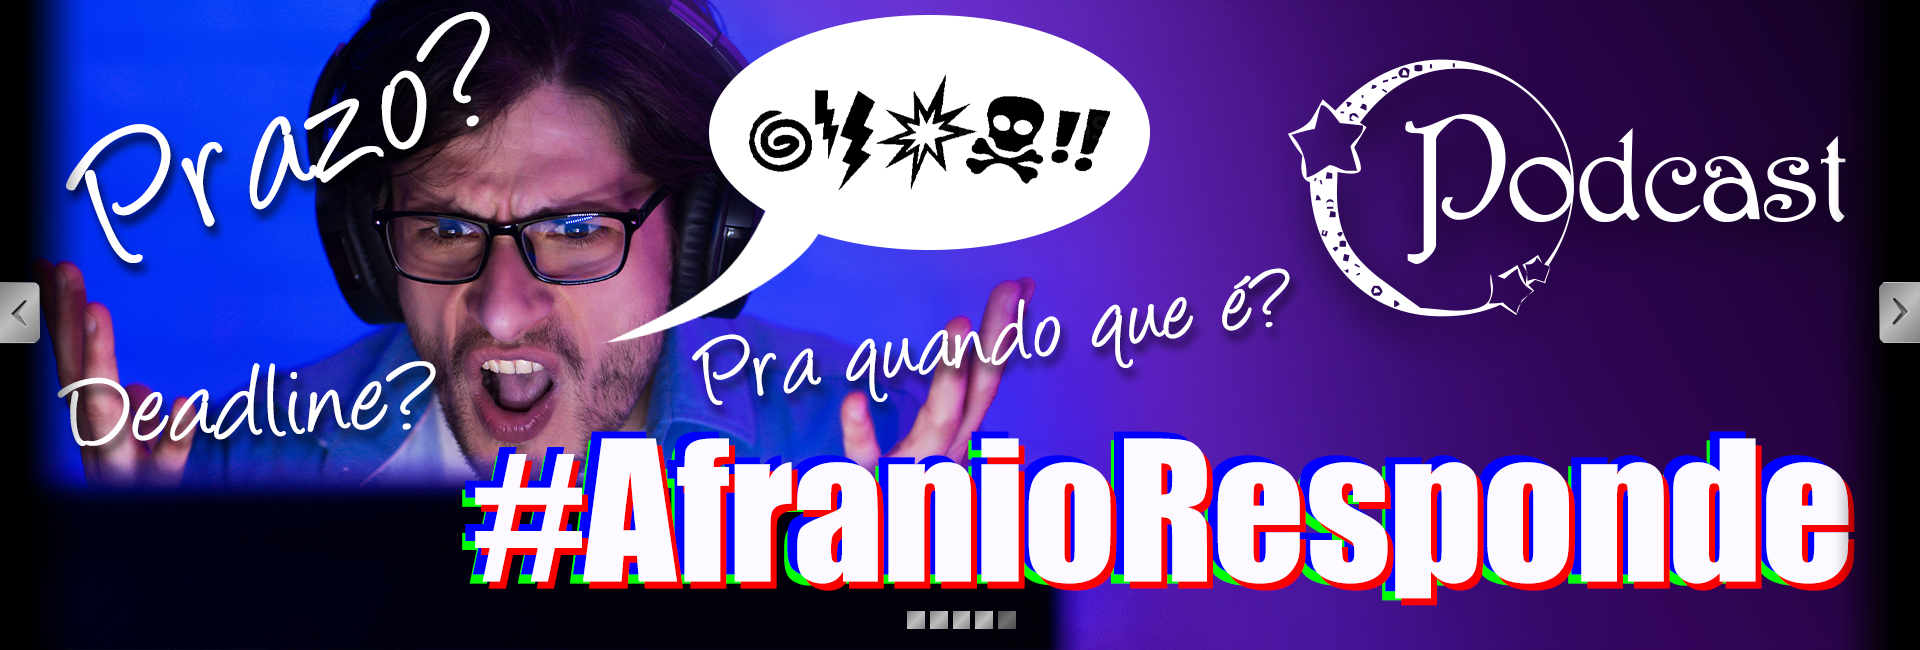
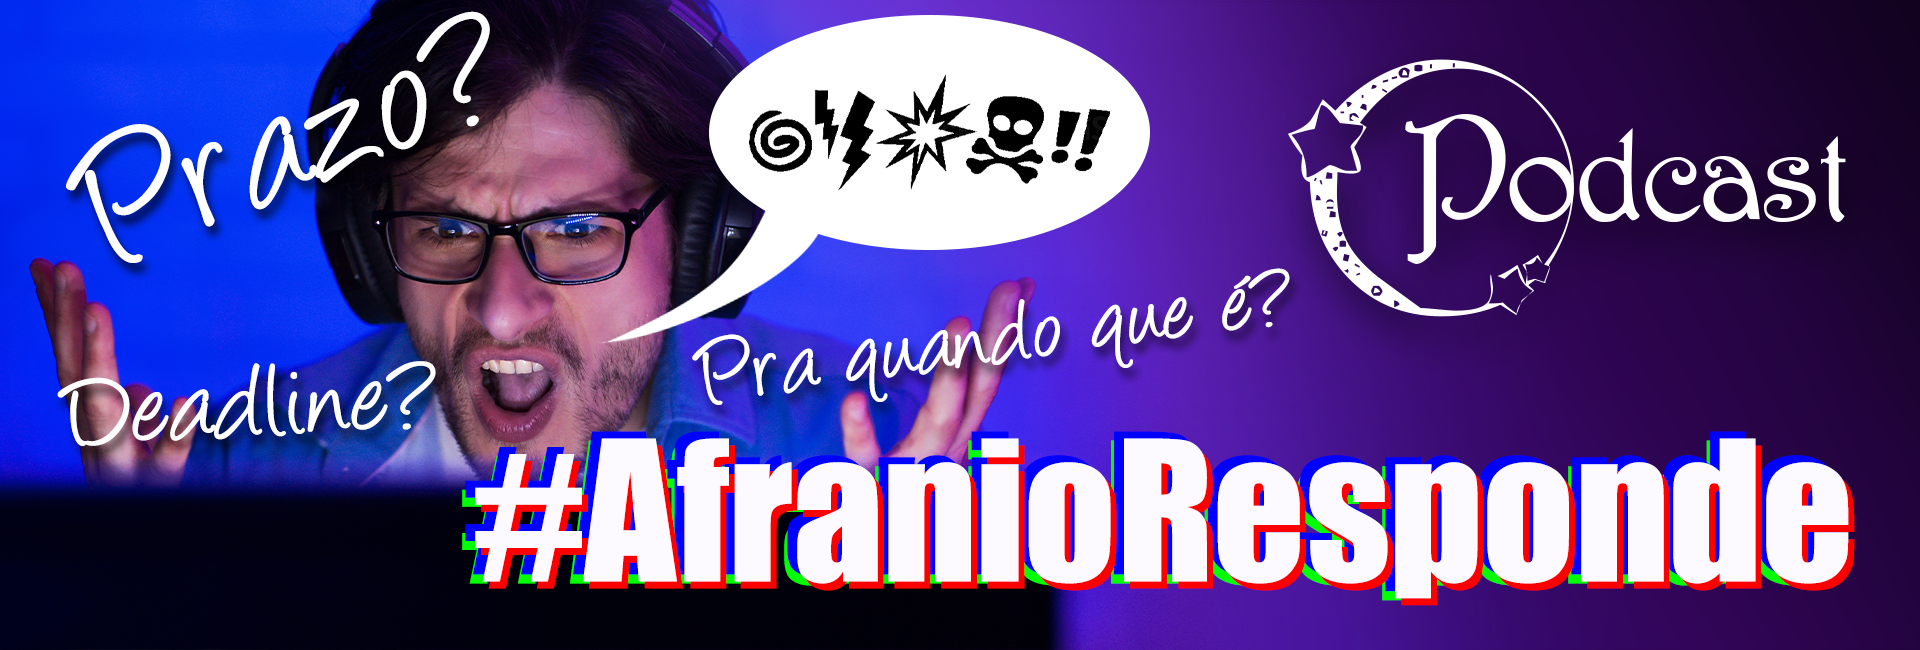
atualização página login

diff --git a/login.html b/login.html
@@ -9,18 +9,18 @@
     <link href="https://cdn.jsdelivr.net/npm/bootstrap@5.1.3/dist/css/bootstrap.min.css" rel="stylesheet" integrity="sha384-1BmE4kWBq78iYhFldvKuhfTAU6auU8tT94WrHftjDbrCEXSU1oBoqyl2QvZ6jIW3" crossorigin="anonymous">
     <link rel="stylesheet" href="css/style.css">
 </head>
-<body onload="renderizarNoticias()">
+<body>
     <header>
         <div class="container-grid posicionamento-header">
             <a href=""><img class="logo" src="img/Fantasy_Logo_Branco-com-Sombra 1.png" alt="Logo do Site"></a>
             
             <nav id="menu" class="menu">
-                <a href="">Home</a>
+                <a href="index.html">Home</a>
                 <a href="">Jogos</a>
                 <a href="">Notícias</a>
                 <a href="">Loja</a>
                 <a href="">Suporte</a>
-                <a href="">Minha Conta</a>
+                <a href="login.html">Minha Conta</a>
                 <a href=""><img src="img/lupa.png" alt="Pesquisa" onclick="mostraBusca()"></a>
                 <div id="busca">
                     <form class="busca" action="">
@@ -33,10 +33,10 @@
         </div>
     </header>
 
-    <div id="carrossel" class="carrossel">
+    <!-- <div id="carrossel" class="carrossel">
         <img src="img/banners/Banner_01.png" alt="DDO Feywild">
         <img src="img/banners/Banner_02.png" alt="Afranio responde">
-    </div>
+    </div> -->
 
 
     </div>
@@ -49,16 +49,16 @@
                             <input id="log-email" type="email" placeholder="E-mail" required>
                             <input id="log-senha" type="text" placeholder="Senha" required>
                             <br>
-                            <button class="log-button">Entrar</button>
+                            <button class="log-button" onclick="enviarLogin()">Entrar</button>
                         </form>
                 </div>
                 <div class="login col-md-6">
                     <h4>Ainda não tem conta? Cadastre-se aqui!</h4>
-                        <form class="form-login" action="">
-                            <input id="log-email" type="E-mail" placeholder="E-mail" required>
-                            <input id="log-senha" type="text" placeholder="Senha" required>
+                        <form class="form-cadastrar" action="">
+                            <input id="cad-email" type="E-mail" placeholder="E-mail" required>
+                            <input id="cad-senha" type="text" placeholder="Senha" required>
                             <br>
-                            <button class="log-cadastro-button">Criar conta</button>
+                            <button class="log-cadastro-button" onclick="enviarCadastrar()">Criar conta</button>
                         </form>
                 </div>
             <!-- </div> -->
@@ -79,7 +79,7 @@
                     <li><p class="footerLink"><a href="">Trabalhe conosco</a></p></li>
                 </ul>
             </div>
-            <div class="footer-texto col-md-3">
+            <div class="footer-texto2 col-md-3">
                 <p><b>Jogos</b></p>
                 <ul cass="footerLink">
                     <li><p class="footerLink"><a href="">D&D.com</a></p></li>
@@ -89,7 +89,7 @@
                     <li><p class="footerLink"><a href="">Tetris!</a></p></li>
                 </ul>
             </div>
-            <div class="footer-texto col-md-3">
+            <div class="footer-texto3 col-md-3">
                 <p><b>Midia</b></p>
                 <ul cass="footerLink">
                     <li><p class="footerLink"><a href="">Wallpapers</a></p></li>
@@ -104,10 +104,10 @@
                 </form>
             </div>
             <div class="footer-social col-md-3">
-                <a href=""><img class="fbBox" src="img/social_media/facebook_box.png"></a>
-                <a href=""><img class="socialIcon" src="img/social_media/instagram.png"></a>
-                <a href=""><img class="socialIcon" src="img/social_media/twitter.png"></a>
-                <a href=""><img class="socialIcon" src="img/social_media/youtube.png"></a>
+                <a href="http://www.facebook.com"><img class="fbBox" src="img/social_media/facebook_box.png"></a>
+                <a href="http://www.instagram.com"><img class="socialIcon" src="img/social_media/instagram.png"></a>
+                <a href="http://www.twitter.com"><img class="socialIcon" src="img/social_media/twitter.png"></a>
+                <a href="http://www.youtube.com"><img class="socialIcon" src="img/social_media/youtube.png"></a>
                 <a href=""><img class="socialIcon" src="img/social_media/feed.png"></a>
             </div>
         </div>

diff --git a/index.html b/index.html
@@ -15,12 +15,12 @@
             <a href=""><img class="logo" src="img/Fantasy_Logo_Branco-com-Sombra 1.png" alt="Logo do Site"></a>
             
             <nav id="menu" class="menu">
-                <a href="">Home</a>
+                <a href="index.html">Home</a>
                 <a href="">Jogos</a>
                 <a href="">Notícias</a>
                 <a href="">Loja</a>
                 <a href="">Suporte</a>
-                <a href="">Minha Conta</a>
+                <a href="login.html">Minha Conta</a>
                 <a href=""><img src="img/lupa.png" alt="Pesquisa" onclick="mostraBusca()"></a>
                 <div id="busca">
                     <form class="busca" action="">
@@ -91,9 +91,15 @@
                 Concurso Screenshot da semana
             </div>
             <div class="galeria">
-                <a href=""><img src="img/galeria/040915screenshotwk217.jpg"></a>
-                <a href=""><img src="img/galeria/062220screenshotwk469.jpg"></a>
-                <a href=""><img src="img/galeria/111620screenshotwk489.jpg"></a>
+                <div class="galeria1">
+                    <a href=""><img src="img/galeria/040915screenshotwk217.jpg"></a>
+                </div>
+                <div class="galeria2">
+                    <a href=""><img src="img/galeria/062220screenshotwk469.jpg"></a>
+                </div>
+                <div class="galeria3">
+                    <a href=""><img src="img/galeria/111620screenshotwk489.jpg"></a>
+                </div>
             </div>
         </div>
     </section>
@@ -110,7 +116,7 @@
                     <li><p class="footerLink"><a href="">Trabalhe conosco</a></p></li>
                 </ul>
             </div>
-            <div class="footer-texto col-md-3">
+            <div class="footer-texto2 col-md-3">
                 <p><b>Jogos</b></p>
                 <ul cass="footerLink">
                     <li><p class="footerLink"><a href="">D&D.com</a></p></li>
@@ -120,7 +126,7 @@
                     <li><p class="footerLink"><a href="">Tetris!</a></p></li>
                 </ul>
             </div>
-            <div class="footer-texto col-md-3">
+            <div class="footer-texto3 col-md-3">
                 <p><b>Midia</b></p>
                 <ul cass="footerLink">
                     <li><p class="footerLink"><a href="">Wallpapers</a></p></li>
@@ -135,10 +141,10 @@
                 </form>
             </div>
             <div class="footer-social col-md-3">
-                <a href=""><img class="fbBox" src="img/social_media/facebook_box.png"></a>
-                <a href=""><img class="socialIcon" src="img/social_media/instagram.png"></a>
-                <a href=""><img class="socialIcon" src="img/social_media/twitter.png"></a>
-                <a href=""><img class="socialIcon" src="img/social_media/youtube.png"></a>
+                <a href="http://www.facebook.com"><img class="fbBox" src="img/social_media/facebook_box.png"></a>
+                <a href="http://www.instagram.com"><img class="socialIcon" src="img/social_media/instagram.png"></a>
+                <a href="http://www.twitter.com"><img class="socialIcon" src="img/social_media/twitter.png"></a>
+                <a href="http://www.youtube.com"><img class="socialIcon" src="img/social_media/youtube.png"></a>
                 <a href=""><img class="socialIcon" src="img/social_media/feed.png"></a>
             </div>
         </div>

diff --git a/css/style.css b/css/style.css
@@ -63,6 +63,11 @@ body{
     justify-content: space-between;
 }
 
+.barras{
+    width: 50px;
+    display: none;
+}
+
 
 /* ============================================================================ */
 /* ============================================================================ */
@@ -105,6 +110,10 @@ body{
 
 .texto-banner p{
     margin-bottom: 50px;
+}
+
+.carrossel img{
+    width: 100%;
 }
 
 
@@ -176,8 +185,10 @@ body{
 
 
 .secao-galeria{
+    width: 100%;
     background-color: #3b414b;
     display: flex;
+    /* padding: 20px; */
 }
 
 .concurso{
@@ -205,10 +216,6 @@ body{
     margin-bottom: 20px;
 }
 
-.barras{
-    width: 50px;
-    display: none;
-}
 
 
 /* ============================================================================ */
@@ -372,6 +379,33 @@ button:hover {
     border-radius: 8px;
 }
 
+.form-cadastrar{
+    font-family: 'Roboto', sans-serif;
+    font-size: 20px;
+}
+
+.form-cadastrar[type="email"]{
+    height: 25px;
+    width: 240px;
+    padding: 3px;
+}
+
+.form-cadastrar input[type="email"]::placeholder{
+    color: #3b414b;
+    font-weight: bold;
+}
+
+.form-cadastrar[type="text"]{
+    height: 25px;
+    width: 220px;
+    padding: 3px;
+}
+
+.form-cadastrar input[type="text"]::placeholder{
+    color: #3b414b;
+    font-weight: bold;
+}
+
 .log-cadastro-button{
     height: 45px;
     padding: 2px 10px;
@@ -433,6 +467,55 @@ button:hover {
 
     .posicionamento-header{
         position: relative;
+    }
+
+    .footer-texto2{
+        display: none;
+    }
+
+    .footer-texto3{
+        display: none;
+    }
+    .texto-sobre {
+        background-color: #6c7178;
+        width: 100%;
+        font-family: 'Roboto', sans-serif;
+        font-size: 18px;
+        color: #FFFFFF;
+        text-decoration: none;
+        padding: 20px;
+        margin-right: 30px;
+        /* background: var(--gradiente);
+        box-shadow: 5px 5px 10px #000000,  10px 10px 20px #00000080; */
+        box-shadow: 5px 5px 5px #0000003f;
+    }
+    
+    .atualizacoes{
+        font-family: 'Roboto', sans-serif;
+        font-size: 26px;
+        color: #FFFFFF;
+        text-decoration: none;
+        font-weight: bold;
+    }
+    
+    .noticias a{
+        font-family: 'Roboto', sans-serif;
+        font-size: 18px;
+        color: #FFFFFF;
+        text-decoration: none;
+        font-weight: bold;
+    }
+
+    .concurso{
+        align-items: center;
+    }
+
+    .galeria2{
+        display: none;
+    }
+
+    .galeria3{
+        display: none;
     }
 
 }

diff --git a/js/script.js b/js/script.js
@@ -72,6 +72,24 @@ function enviarNewsletter(){
     console.log(emailDigitado)
 }
 
+// function enviarLogin(){
+//     let logEmail = document.getElementById("campo-log-email");
+//     let logEmailDigitado = logEmail.value;
+//     console.log(logEmailDigitado)
+//     let logSenha = document.getElementById("campo-log-senha");
+//     let logEmailDigitado = logSenha.value;
+//     console.log(logEmailDigitado)
+// }
+
+function enviarCadastrar(){
+    let cadEmail = document.getElementById("campo-cad-email");
+    let cadEmailDigitado = cadEmail.value;
+    console.log(cadEmailDigitado)
+    let cadSenha = document.getElementById("campo-cad-senha");
+    let cadSenhaDigitado = cadSenha.value;
+    console.log(cadSenhaDigitado)
+}
+
 
 /* ============================================================================ */
 /* ============================================================================ */
